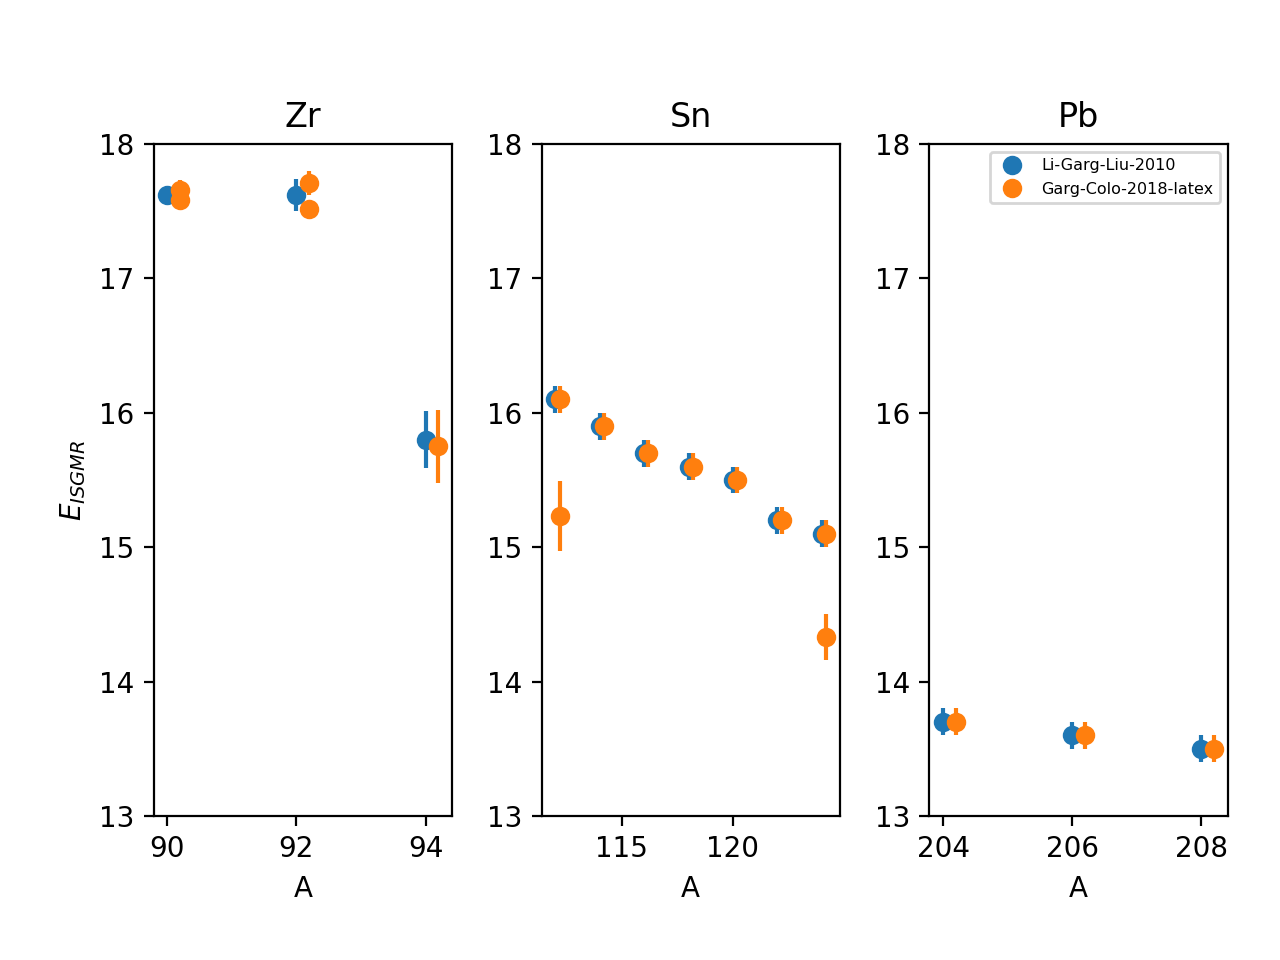
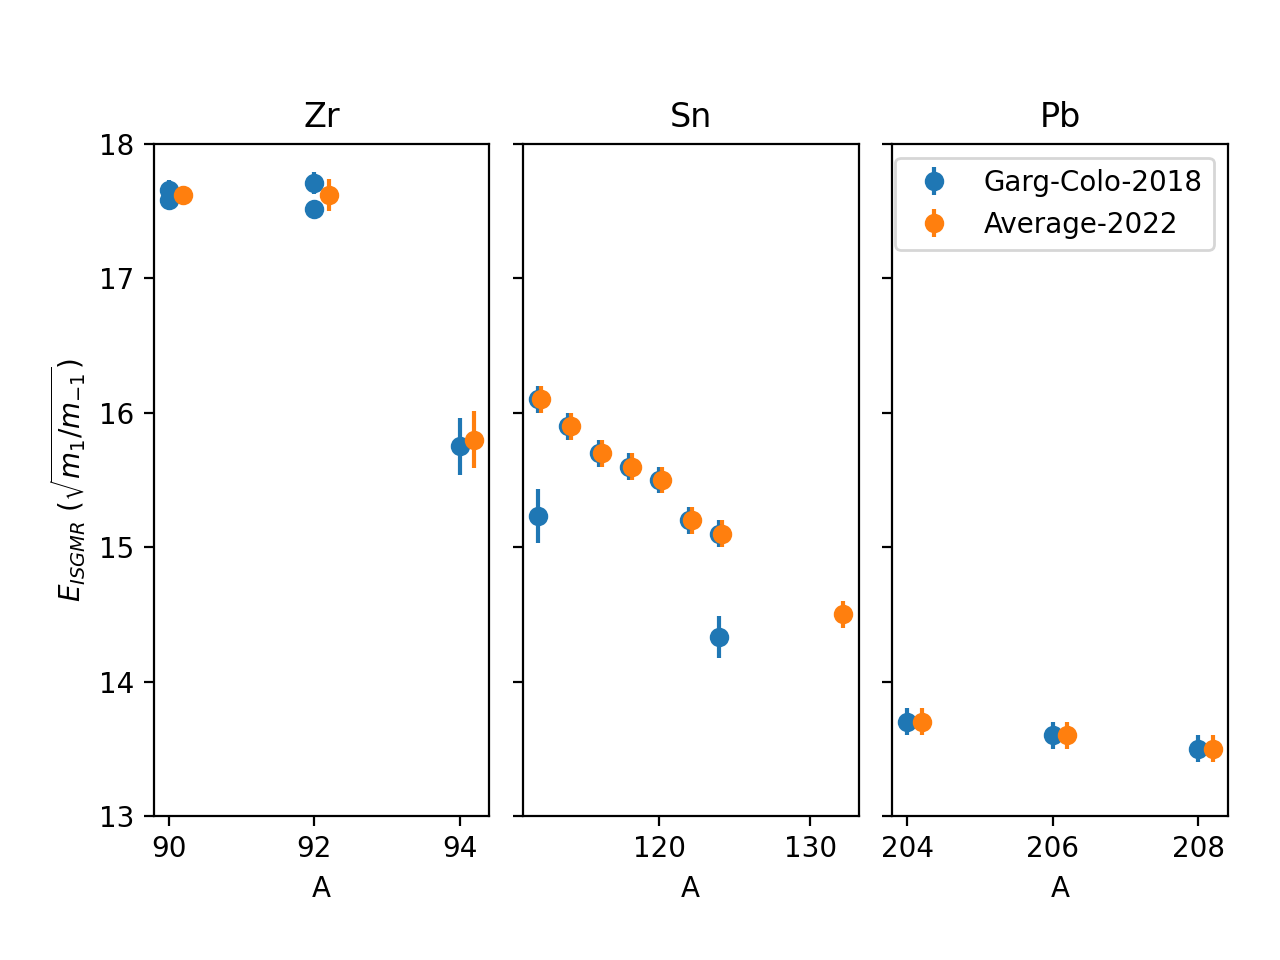
new tool for ISGMR energies

diff --git a/version1.0/nucleardatapy/nuc/setup_isgmr_exp.py b/version1.0/nucleardatapy/nuc/setup_isgmr_exp.py
@@ -20,7 +20,7 @@ def isgmr_exp_tables():
     #
     if nuda.env.verb: print("\nEnter isgmr_exp_tables()")
     #
-    tables = [ '2010-ISGMR-LI', '2018-ISGMR-GARG', '2018-ISGMR-GARG-LATEX' ]
+    tables = [ '2010-ISGMR-LI', '2018-ISGMR-GARG', '2018-ISGMR-GARG-LATEX', '2022-ISGMR-average' ]
     #print('tables available in the toolkit:',tables)
     tables_lower = [ item.lower() for item in tables ]
     #print('tables available in the toolkit:',tables_lower)
@@ -199,6 +199,28 @@ class setupISGMRExp():
                nbk += 1
          #
          nbk -= 1
+         #
+      elif table.lower() == '2022-isgmr-average':
+         #
+         file_in = os.path.join(nuda.param.path_data,'nuclei/isgmr/2022-ISGMR-average.dat')
+         if nuda.env.verb: print('Reads file:',file_in)
+         self.ref = 'U. Garg and G. Colo, Prog. Part. Nucl. Phys. 101, 55 (2018)'
+         self.label = 'Average-2022'
+         self.note = "write here notes about this table."
+         nucZ, nucA, nucM12Mm1, nucM12Mm1_errp, nucM12Mm1_errm = \
+            np.loadtxt( file_in, usecols=(0,1,2,3,4), comments='#', unpack = True )
+         nucN = nucA - nucZ
+         #print('elements:',nuda.param.elements)
+         for k,Z in enumerate(nucZ):
+            nucSymbol.append( nuda.param.elements[int(Z)-1] )
+            nucEprobe.append( '100' )
+            nucProj.append( '$\alpha$' )
+            nucE0.append( None ); nucE0_errp.append( None ); nucE0_errm.append( None )
+            nucG.append( None ); nucG_errp.append( None ); nucG_errm.append( None )
+            nucEWSR.append( None ); nucEWSR_errp.append( None ); nucEWSR_errm.append( None )
+            nucM12M0.append( None ); nucM12M0_errp.append( None ); nucM12M0_errm.append( None )
+            nucM32M1.append( None ); nucM32M1_errp.append( None ); nucM32M1_errm.append( None )
+         nuc = len( nucZ ); nbk = nuc
       #
       print('\nnumber of different nuclei:',nuc)
       print('\nnumber of total entries:   ',nbk)
@@ -215,7 +237,45 @@ class setupISGMRExp():
       isgmr['ref'] = nucRef
       self.isgmr = isgmr
       #
-      # compute average values
+      #: Attribute energy unit.
+      self.E_unit = 'MeV'
+      #
+      if nuda.env.verb: print("Exit setupISGMRExp()")
+   #
+   def print_outputs( self ):
+      """
+      Method which print outputs on terminal's screen.
+      """
+      print("")
+      #
+      if nuda.env.verb: print("Enter print_outputs()")
+      #
+      print("- Print output:")
+      print("   table:",self.table)
+      print("   ref:",self.ref)
+      print("   label:",self.label)
+      print("   note:",self.note)
+      print('\nZ:',self.isgmr['Z'])
+      print('\nA:',self.isgmr['A'])
+      for ind,Z in enumerate( self.isgmr['Z'] ):
+         print('For Z:',Z,' A:',self.isgmr['A'][ind])
+         for A in self.isgmr['A'][ind]:
+            print('Centroid energy:',self.isgmr['M12Mm1'][ind])
+            print('   with errp:',self.isgmr['M12Mm1_errp'][ind])
+            print('   with errm:',self.isgmr['M12Mm1_errm'][ind])
+      #
+      if nuda.env.verb: print("Exit print_outputs()")
+      #
+   #
+   def average( self ):
+      """
+      Method to average the data when same target is given.
+
+      **Attributes:**
+      """
+      print("")
+      #
+      if nuda.env.verb: print("Enter average()")
       #
       k = 0
       AAm1 = 0
@@ -381,36 +441,54 @@ class setupISGMRExp():
       isgmrm['M12Mm1'] = nM12Mm1; isgmrm['M12Mm1_errp'] = nM12Mm1_errp; isgmrm['M12Mm1_errm'] = nM12Mm1_errm
       isgmrm['M32M1'] = nM32M1; isgmrm['M32M1_errp'] = nM32M1_errp; isgmrm['M32M1_errm'] = nM32M1_errm
       self.isgmrm = isgmrm
-
+      #
       for k in range(len(isgmrm['A'])):
          print('Z=',isgmrm['Z'][k],' symbol:',isgmrm['symbol'][k],' A=',isgmrm['A'][k],' N=',isgmrm['N'][k],' E0:',isgmrm['E0'][k],isgmrm['E0_errp'][k],isgmrm['E0_errm'][k])
       #
-      #: Attribute energy unit.
-      self.E_unit = 'MeV'
+      return self
       #
-      if nuda.env.verb: print("Exit setupISGMRExp()")
+      if nuda.env.verb: print("Exit average()")
+      #
    #
-   def print_outputs( self ):
+   def select( self, Zref=50, obs = 'M12Mm1' ):
       """
-      Method which print outputs on terminal's screen.
+      Method to select a subset of data.
+
+      :param Zref: Fix the reference charge for the search of isotopes.
+      :type Zref: int, optional. Default: 1.
+      :param obs: kind of observable to extract: 'M12M0', 'M12Mm1', 'M32M1'.
+      :type obs: str
+      **Attributes:**
       """
       print("")
       #
-      if nuda.env.verb: print("Enter print_outputs()")
+      if nuda.env.verb: print("Enter select()")
       #
-      print("- Print output:")
-      print("   table:",self.table)
-      print("   ref:",self.ref)
-      print("   label:",self.label)
-      print("   note:",self.note)
-      print('\nZ:',self.isgmr['Z'])
-      print('\nA:',self.isgmr['A'])
-      for ind,Z in enumerate( self.isgmr['Z'] ):
-         print('For Z:',Z,' A:',self.isgmr['A'][ind])
-         for A in self.isgmr['A'][ind]:
-            print('Centroid energy:',self.isgmr['M12Mm1'][ind])
-            print('   with errp:',self.isgmr['M12Mm1_errp'][ind])
-            print('   with errm:',self.isgmr['M12Mm1_errm'][ind])
+      nucA = []; cent = []; errp = []; errm = [];
+      for ind,A in enumerate(self.isgmr['A']):
+         if obs == 'M12M0' and int( self.isgmr['Z'][ind] ) == Zref and self.isgmr['M12M0'][ind] is not None:
+            nucA.append( int(A) )
+            cent.append( float( self.isgmr['M12M0'][ind] ) )
+            errp.append( float( self.isgmr['M12M0_errp'][ind] ) )
+            errm.append( float( self.isgmr['M12M0_errm'][ind] ) )
+         if obs == 'M12Mm1' and int( self.isgmr['Z'][ind] ) == Zref and self.isgmr['M12Mm1'][ind] is not None:
+            nucA.append( int(A) )
+            cent.append( float( self.isgmr['M12Mm1'][ind] ) )
+            errp.append( float( self.isgmr['M12Mm1_errp'][ind] ) )
+            errm.append( float( self.isgmr['M12Mm1_errm'][ind] ) )
+         if obs == 'M32M1' and int( self.isgmr['Z'][ind] ) == Zref and self.isgmr['M32M1'][ind] is not None:
+            nucA.append( int(A) )
+            cent.append( float( self.isgmr['M32M1'][ind] ) )
+            errp.append( float( self.isgmr['M32M1_errp'][ind] ) )
+            errm.append( float( self.isgmr['M32M1_errm'][ind] ) )
+      erra = 0.5 * np.add( errp, errm )
+      self.nucA = nucA
+      self.cent = cent
+      self.errp = errp
+      self.errm = errm
+      self.erra = erra
       #
-      if nuda.env.verb: print("Exit print_outputs()")
+      return self
+      #
+      if nuda.env.verb: print("Exit select()")
       #

diff --git a/version1.0/nucleardatapy_samples/plots/plot_nuc_setupISGMRExp.py b/version1.0/nucleardatapy_samples/plots/plot_nuc_setupISGMRExp.py
@@ -13,27 +13,24 @@ def plot_nuc_setupISGMRExp( pname, tables ):
     #
     # plot
     #
-    fig, axs = plt.subplots(1,3)
-    fig.tight_layout() # Or equivalently,  "plt.tight_layout()"
-    fig.subplots_adjust(left=0.12, bottom=0.15, right=None, top=0.85, wspace=0.3, hspace=0.3)
-    #
-    axs[0].set_title(r'Zr')
-    axs[0].set_ylabel(r'$E_{ISGMR}$')
-    axs[0].set_xlabel(r'A')
-    #axs[0].set_xlim([88, 96])
-    axs[0].set_ylim([13, 18])
-    #
-    axs[1].set_title(r'Sn')
-    axs[1].set_xlabel(r'A')
-    #axs[1].set_xlim([110, 136])
-    axs[1].set_ylim([13, 18])
-    #
-    axs[2].set_title(r'Pb')
-    axs[2].set_xlabel(r'A')
-    #axs[2].set_xlim([202, 210])
-    axs[2].set_ylim([13, 18])
+    obs = 'M12Mm1'
     #
     nucZ = [ 40, 50, 82 ]
+    #
+    fig, axs = plt.subplots(1,3)
+    fig.tight_layout() # Or equivalently,  "plt.tight_layout()"
+    fig.subplots_adjust(left=0.12, bottom=0.15, right=None, top=0.85, wspace=0.1, hspace=0.3)
+    #
+    if obs == 'M12M0':
+        axs[0].set_ylabel(r'$E_{ISGMR}$ ($m_1/m_0$)')
+    elif obs == 'M12Mm1':
+        axs[0].set_ylabel(r'$E_{ISGMR}$ ($\sqrt{m_1/m_{-1}}$)')
+    elif obs == 'M12Mm1':
+        axs[0].set_ylabel(r'$E_{ISGMR}$ ($\sqrt{m_3/m_1}$)')
+    #
+    #axs[0].set_xlim([88, 96])
+    #axs[1].set_xlim([110, 136])
+    #axs[2].set_xlim([202, 210])
     #
     for k,table in enumerate( tables ):
         #
@@ -44,20 +41,15 @@ def plot_nuc_setupISGMRExp( pname, tables ):
         #print('E_errp[gmr.Z==40]:',gmr.E_errp[gmr.Z==40])
         for i in [0,1,2]:
             print('For Z = ',nucZ[i])
-            nucA = []; cent = []; errp = []; errm = [];
-            for ind,A in enumerate(gmr.isgmr['A']):
-                if int( gmr.isgmr['Z'][ind] ) == nucZ[i] and gmr.isgmr['M12Mm1'][ind] is not None:
-                    nucA.append( int(A)+0.2*k )
-                    cent.append( float( gmr.isgmr['M12Mm1'][ind] ) )
-                    errp.append( float( gmr.isgmr['M12Mm1_errp'][ind] ) )
-                    errm.append( float( gmr.isgmr['M12Mm1_errm'][ind] ) )
-            print('A:',nucA)
-            print('cent:',cent)
-            print('errp:',errp)
-            print('errm:',errm)
-            axs[i].errorbar( nucA, cent, yerr=errp, fmt='o', label=gmr.label )
+            axs[i].set_title(nuda.param.elements[nucZ[i]-1])
+            axs[i].set_xlabel(r'A')
+            axs[i].set_ylim([13, 18])
+            if i>0: axs[i].tick_params('y', labelleft=False)
+            gmrs = gmr.select( Zref = nucZ[i], obs = obs )
+            x = gmrs.nucA+0.2*k*np.ones(len(gmrs.nucA))
+            axs[i].errorbar( x, gmrs.cent, yerr=gmrs.erra, fmt='o', label=gmr.label )
     #
-    axs[2].legend(loc='upper right',fontsize='xx-small')
+    axs[2].legend(loc='upper right',fontsize='10')
     #
     plt.savefig(pname, dpi=200)
     plt.close()
@@ -73,7 +65,7 @@ def main():
     os.system('mkdir -p figs/')
     #
     #tables, tables_lower = nuda.nuc.isgmr_exp_tables()
-    tables = [ '2010-ISGMR-LI', '2018-ISGMR-GARG-LATEX' ]
+    tables = [ '2018-ISGMR-GARG-LATEX', '2022-ISGMR-average' ]
     #
     pname = 'figs/plot_nuc_setupISGMRExp.png'
     #

diff --git a/version1.0/nucleardatapy/nuc/setup_be_exp.py b/version1.0/nucleardatapy/nuc/setup_be_exp.py
@@ -459,7 +459,6 @@ class setupBEExp():
         """
         Method which select some nuclei from the table according to some criteria.
 
-
         :param interp: If interp='n', exclude the interpolated nuclei from the selected ones. \
         If interp='y' consider them in the table, in addition to the others.
         :type interp: str, optional. Default = 'n'.
